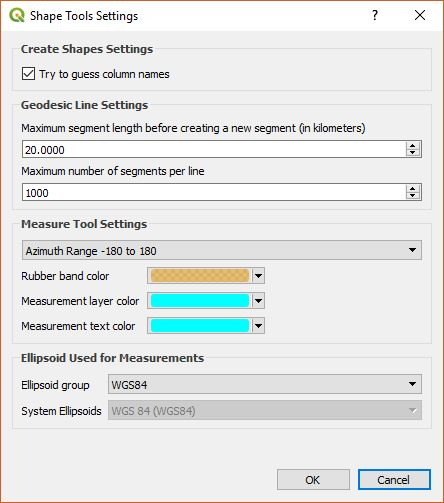
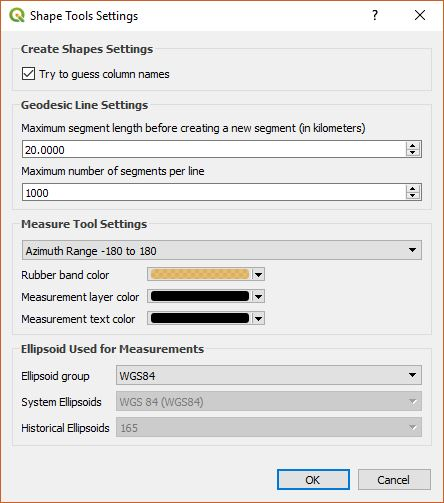
added historical ellipsoids

Changed region(s): [[0.0293, 0.5368, 0.9662, 0.8946], [0.6149, 0.9245, 0.9955, 0.9841]]

diff --git a/readme.md b/readme.md
@@ -214,5 +214,6 @@ The settings dialog box can be accessed from the Shape Tools menu *Vector->Shape
     * **Measurement layer color** - Vector line color when a measurement layer is created from the ***Geodesic measure tool*** or from the ***Geodesic measurement layer*** tool.
     * **Measurement layer text** - Color of the text when a measurement layer is created from the ***Geodesic measure tool*** or from the ***Geodesic measurement layer*** tool.
 * **Ellipsoid Used for Measurements** - Selects the ellipsoid used for calculating the geodesic distances within Shape Tools. By default this should normally be *WGS 84*
-    * **Ellipsoid group** - Choose the default *WGS 84* setting or enable the *System Ellipsoids*.
+    * **Ellipsoid group** - Choose the default *WGS 84* setting or enable *System Ellipsoids* or *Historical Ellipsoids*.
     * **System Ellipsoids** - This is enabled if **Ellipsoid group** is set to *System Ellipsoids*.
+    * **Historical Ellipsoids** - This is enabled if **Ellipsoid group** is set to *Historical Ellipsoids*. Additional historical ellipsoids can be selected.
